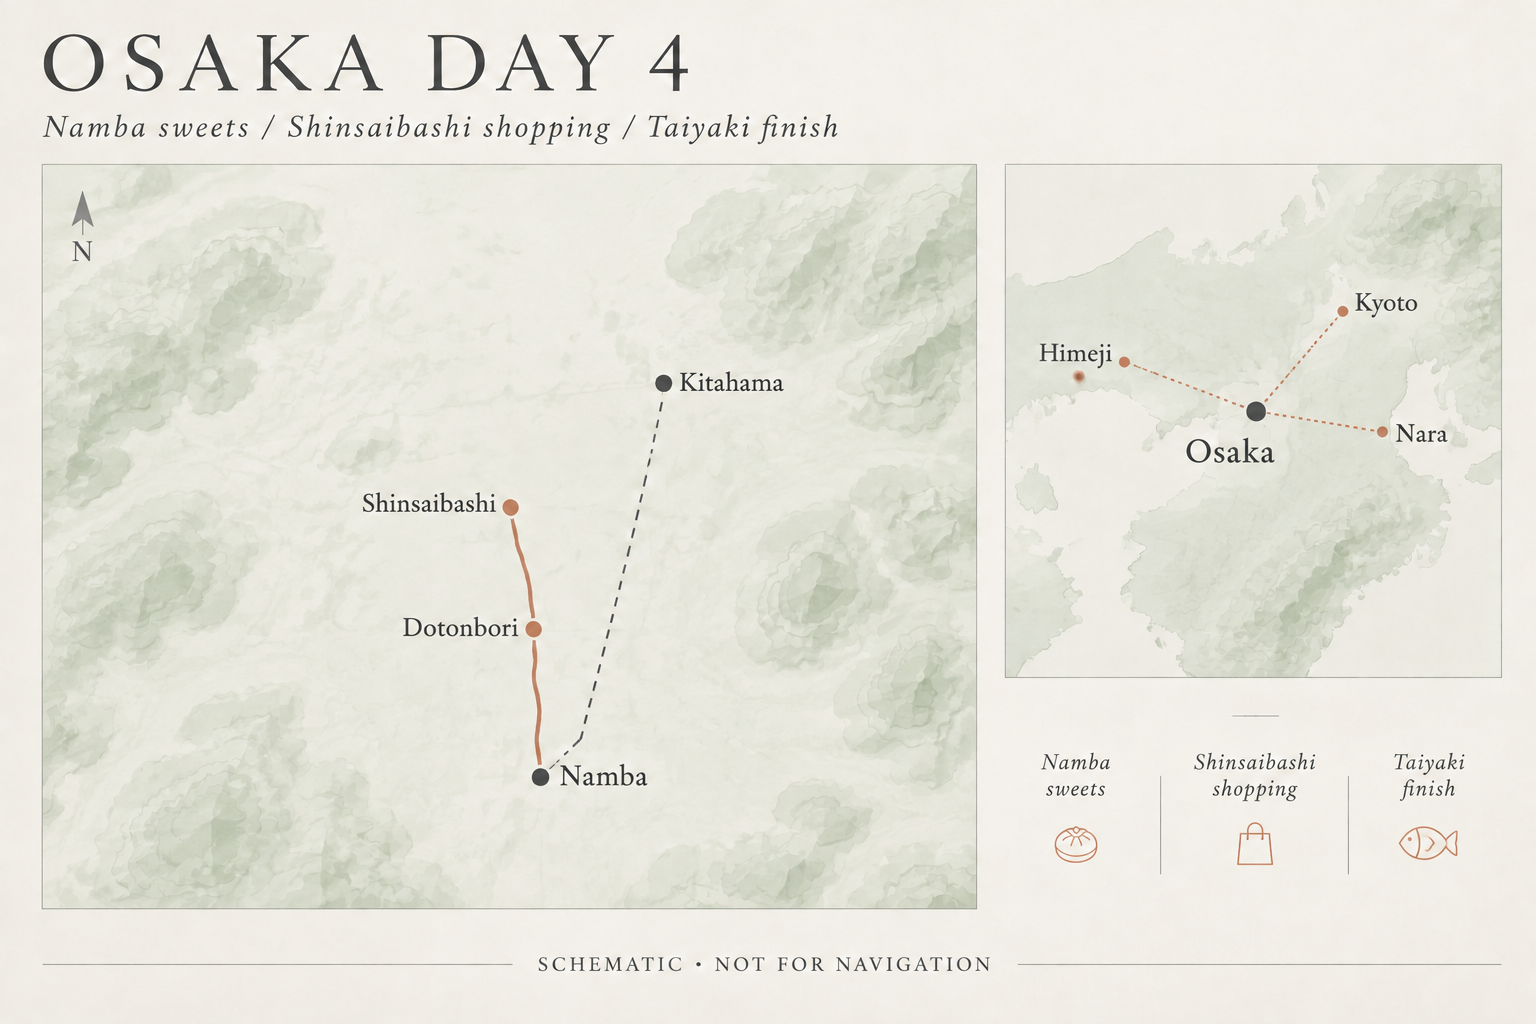
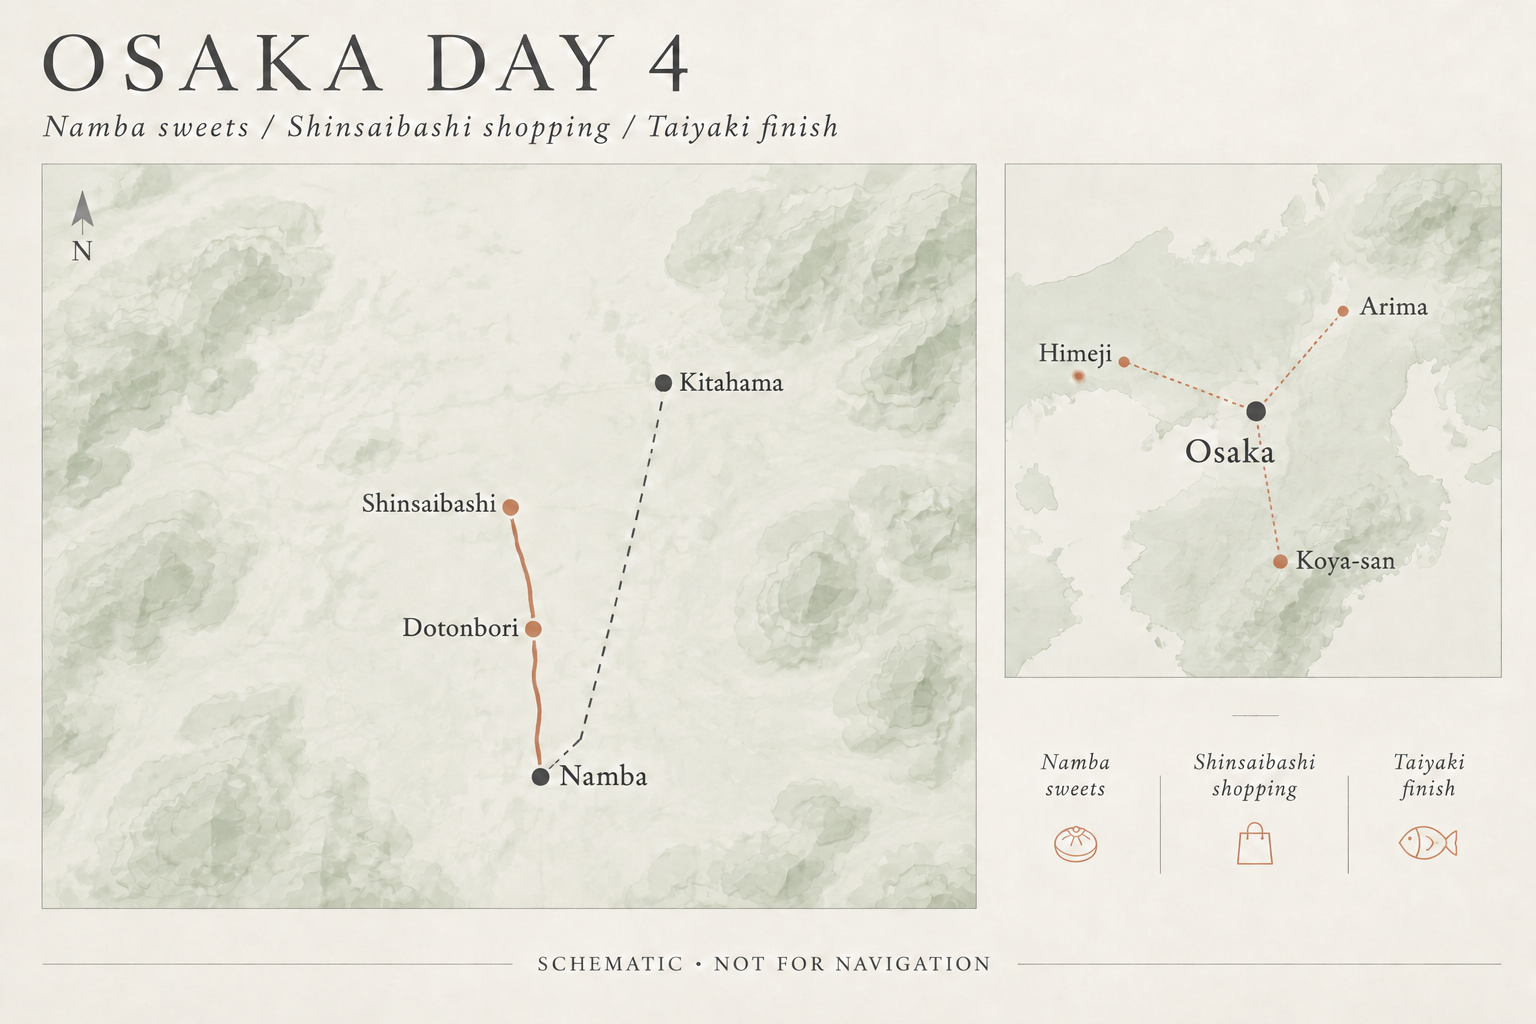
Swap Japan day 4 day trips to Himeji, Koya-san and Arima Onsen

diff --git a/src/lib/japan-day-four-plan.ts b/src/lib/japan-day-four-plan.ts
@@ -9,8 +9,8 @@ export const japanDayFourPlan = {
     askFor: "custard (カスタード)",
   },
   dayTrips: [
-    { id: "nara", name: "Nara", mood: "Deer, temples & a slower day", train: "From Osaka-Namba, take the Kintetsu Nara Line towards Kintetsu-Nara. A direct Rapid Express typically takes 35–45 minutes. Ordinary rapid/express trains do not need a limited-express supplement. From Kitahama, allow about 60–80 minutes door to door including the metro change and walk.", walk: "Walk from Kintetsu-Nara to Nara Park, then Todai-ji and the wooded approach to Kasuga Taisha. Allow 5–6 hours in town. Feed deer only the designated crackers, put food away and keep children close. Deer are wild animals and can nip or push.", start: "Osaka-Namba Station", end: "Kintetsu-Nara Station", official: "https://www.visitnara.jp/", railway: "https://www.kintetsu.co.jp/foreign/english/", stops: ["Nara Park", "Todai-ji Temple", "Kasuga Taisha"] },
-    { id: "kyoto", name: "Kyoto", mood: "Shrine paths & old streets", train: "From Osaka Station, a JR Kyoto Line Special Rapid usually takes 30 minutes to Kyoto Station. From Kitahama, another useful option is Keihan from Kitahama towards Gion-Shijo, around 50–60 minutes depending on service. Allow 60–90 minutes from the hotel to your first sightseeing stop.", walk: "Pick one side of the city rather than trying to see everything. One manageable option is Fushimi Inari early, then the Higashiyama lanes and Gion. Take the JR Nara Line from Kyoto Station to Inari, or the Keihan line to Fushimi-Inari. Allow 6–8 hours, expect crowds and respect no-photography and private-lane signs in Gion.", start: "Kitahama Station", end: "Gion-Shijo Station", official: "https://kyoto.travel/en/", railway: "https://www.keihan.co.jp/travel/en/", stops: ["Fushimi Inari Taisha", "Higashiyama Kyoto", "Gion Kyoto"] },
     { id: "himeji", name: "Himeji", mood: "A magnificent castle & a garden", train: "Take a JR Kobe Line Special Rapid from Osaka Station to Himeji, allowing around 60–75 minutes depending on the service, with no Shinkansen reservation. Alternatively, use a Sanyo Shinkansen from Shin-Osaka to Himeji, around 30–45 minutes depending on the train, plus the hotel-to-station transfer and a separate valid ticket or covered pass.", walk: "From Himeji Station's north exit, walk 15–20 minutes along Otemae-dori to Himeji Castle. Give the castle 2–3 hours and nearby Koko-en Garden another 45–60 minutes. Interior stairs are steep and shoes must be removed where instructed. Allow 5–6 hours locally and check the last castle admission before setting out.", start: "Osaka Station", end: "Himeji Station", official: "https://visit-himeji.com/en/", railway: "https://www.westjr.co.jp/global/en/", stops: ["Himeji Castle", "Koko-en Garden Himeji"] },
+    { id: "koyasan", name: "Koya-san", mood: "A mountain of temples & the great cemetery", train: "Take the Nankai Koya Line from Osaka-Namba to Gokurakubashi. The Limited Express Koya with reserved seats covers that leg in about 80 minutes and adds a ¥1,100 limited-express fee per adult on top of the fare, while an express or rapid express takes around 100 minutes, usually with one change at Hashimoto, for about ¥930. At Gokurakubashi transfer to the cable car for roughly five minutes, then take the bus about ten minutes into town, because walking the road between the cable car station and the town is not permitted. Nankai's Koyasan World Heritage Digital Ticket bundles the round trip, the cable car and two days of mountain buses for ¥3,980 per adult from Namba, or ¥4,910 with a reserved limited-express seat on the way up, and is sold online only as a QR ticket.", walk: "Give the mountain five to six hours. The Daimon-zaka cedar approach, the lantern-lined lanes of Okunoin and the Konpon Daito and Kondo halls form the compact core. Temple entry is charged separately, with Kongobuji at ¥1,000 and Kondo and Konpon Daito at ¥500 each. The town sits near 1,000 metres, so it is cooler than Osaka, and a late return means checking the last cable car and bus before you leave the temple lanes.", start: "Osaka-Namba Station", end: "Gokurakubashi Station", official: "https://www.koyasan.or.jp/en/", railway: "https://www.nankai.co.jp/en_railway/", stops: ["Okunoin Cemetery Koya-san", "Daimon-zaka Approach Koya-san", "Konpon Daito Koya-san"] },
+    { id: "arima", name: "Arima Onsen", mood: "Hot spring water & a mountain town", train: "The simplest option is the Hankyu Kanko Bus from the Hankyu Sanbangai terminal beside Osaka-Umeda, about 55 minutes with no transfer and around ¥1,400 per person one way, with all seats reserved and advance booking required. The rail alternative is a JR Special Rapid from Osaka to Sannomiya in about 21 minutes, then the Kobe subway to Tanigami and the Kobe Electric Railway up to Arima Onsen, roughly one hour and about ¥1,140 in total. Some highway buses also stop at JR Namba's Minatomachi terminal, so check the day's timetable rather than assuming one.", walk: "The town is compact and entirely walkable, so plan on lanes, bathhouses and a small hot spring museum rather than a sightseeing list. Two waters define the place: the rust-brown kinsen, or gold spring, rich in iron and salt, and the clear ginsen, or silver spring. Kin no Yu costs ¥800, or ¥650 on ordinary weekdays, with a two-bath ticket at ¥1,200, and the free Taiko no Yudonokan foot bath needs no ticket. Closing days are staggered between the bathhouses, so check the current notice for your date.", start: "Osaka-Umeda Station", end: "Arima Onsen Station", official: "https://www.arima-onsen.com/", railway: "https://www.hankyu-bus.co.jp/", stops: ["Kin no Yu Arima Onsen", "Gin no Yu Arima Onsen", "Arima Onsen Town"] },
   ],
 } as const;

diff --git a/src/components/site/JapanDayFourGuide.tsx b/src/components/site/JapanDayFourGuide.tsx
@@ -37,7 +37,7 @@ export function JapanDayFourGuide() {
         ["18:30–20:00", "Yakiniku Gorichan", "Book the branch you actually intend to visit."],
         ["After dinner", "Octave, or back to the hotel", "An optional adults-only shisha finish, with your return journey checked."],
       ].map(([time, title, note]) => <li key={title} className="grid gap-2 py-4 sm:grid-cols-[9rem_1fr]"><span className="text-sm font-semibold text-terracotta">{time}</span><div><h4 className="text-sm font-semibold">{title}</h4><p className="mt-1 text-sm leading-relaxed text-soft">{note}</p></div></li>)}</ol>
-      <img src={artwork} alt="Schematic Kitahama to Namba, Dotonbori and Shinsaibashi walking route with a taiyaki stop and separate Nara, Kyoto and Himeji excursions" width={1536} height={1024} className="mt-6 h-auto w-full rounded-lg" />
+      <img src={artwork} alt="Schematic Kitahama to Namba, Dotonbori and Shinsaibashi walking route with a taiyaki stop and separate Himeji, Koya-san and Arima Onsen excursions" width={1536} height={1024} className="mt-6 h-auto w-full rounded-lg" />
       <p className="mt-3 text-xs leading-relaxed text-soft">Schematic overview, not street or railway navigation. The walking loop links Namba, Dotonbori and Shinsaibashi. The regional inset shows three separate alternatives, not a single route.</p>
     </div>
 
@@ -129,7 +129,7 @@ export function JapanDayFourGuide() {
 
     <div className="border-b border-border py-8">
       <h3 className="flex items-center gap-2 font-display text-3xl"><TrainFront className="size-6" />Or trade the city day for one of these</h3>
-      <p className={copy}>Three researched alternatives if, like us, you feel ready to leave Osaka for the day. These are not additional trips we claim to have made on day 4. Choose one and check whether it appears later in your Japan itinerary before repeating it. All rail times are approximate, verify your date and the return train. An Osaka Metro ticket does not cover every regional railway and an IC card alone is not a Shinkansen ticket.</p>
+      <p className={copy}>Three researched alternatives if, like us, you feel ready to leave Osaka for the day. Kyoto and Nara are deliberately not on this list, because they belong to a later part of your journey and repeating them here would cost you a day you could spend somewhere new. These are not additional trips we claim to have made on day 4. Choose one and check whether it appears later in your Japan itinerary before repeating it. All rail and bus times are approximate, verify your date and the return service. An Osaka Metro ticket does not cover every regional railway and an IC card alone is not a Shinkansen ticket.</p>
       {plan.dayTrips.map(trip => <article key={trip.id} className="border-t border-border py-6">
         <p className="text-xs font-semibold uppercase text-terracotta">{trip.mood}</p>
         <h4 className="mt-2 font-display text-3xl">{trip.name}</h4>

diff --git a/src/lib/japan-day-four-plan.test.ts b/src/lib/japan-day-four-plan.test.ts
@@ -5,10 +5,6 @@ import { japanDayFourPlan as plan } from "./japan-day-four-plan";
 test("day four retains the recorded Namba shopping, Gorichan and Octave evening", () => {
   assert.deepEqual(plan.recordedStops, ["Namba", "BOOKOFF shopping", "Shinsaibashi", "Yakiniku Gorichan", "Octave"]);
 });
-test("travellers can choose three distinct day trips instead of another Osaka day", () => {
-  assert.deepEqual(plan.dayTrips.map(trip => trip.name), ["Nara", "Kyoto", "Himeji"]);
-  assert.equal(new Set(plan.dayTrips.map(trip => trip.id)).size, 3);
-});
 test("the recorded vanilla sweet is fish-shaped taiyaki, not a waffle", () => {
   assert.deepEqual(plan.recordedSweets, ["Rikuro Ojisan cheesecake", "fruit daifuku", "taiyaki with vanilla custard cream"]);
   assert.equal(plan.taiyaki.name, "Taiyaki");
@@ -19,4 +15,27 @@ test("the recorded vanilla sweet is fish-shaped taiyaki, not a waffle", () => {
 test("no recorded sweet is described as a waffle", () => {
   assert.equal(plan.recordedSweets.some(sweet => /waffle/i.test(sweet)), false);
   assert.equal(Object.keys(plan).some(key => /waffle/i.test(key)), false);
+});
+test("day four offers Himeji, Koya-san and Arima Onsen as three distinct day trips", () => {
+  assert.deepEqual(plan.dayTrips.map(trip => [trip.name, trip.start, trip.end]), [
+    ["Himeji", "Osaka Station", "Himeji Station"],
+    ["Koya-san", "Osaka-Namba Station", "Gokurakubashi Station"],
+    ["Arima Onsen", "Osaka-Umeda Station", "Arima Onsen Station"],
+  ]);
+  assert.equal(new Set(plan.dayTrips.map(trip => trip.id)).size, 3);
+});
+test("Kyoto and Nara are not offered because the travellers visit them later", () => {
+  const names = plan.dayTrips.map(trip => trip.name).join(" ").toLowerCase();
+  const stops = plan.dayTrips.map(trip => trip.stops.join(" ")).join(" ").toLowerCase();
+  assert.equal(names.includes("kyoto"), false);
+  assert.equal(names.includes("nara"), false);
+  assert.equal(stops.includes("kyoto"), false);
+  assert.equal(stops.includes("nara"), false);
+});
+test("every day trip carries official visitor and ticket sources", () => {
+  for (const trip of plan.dayTrips) {
+    assert.match(trip.official, /^https:\/\//);
+    assert.match(trip.railway, /^https:\/\//);
+    assert.ok(trip.stops.length >= 2);
+  }
 });

diff --git a/roadmap.md b/roadmap.md
@@ -1,5 +1,7 @@
 # Roadmap
 
+- [x] Replace Kyoto and Nara in Japan day 4's alternatives with two different day trips, keeping Himeji, because the travellers visit Kyoto and Nara later in their own itinerary. Redraw the map inset to match. Day four now offers Himeji, Koya-san and Arima Onsen with Nankai, Hankyu bus and bath prices per person, the inset shows Himeji, Arima and Koya-san around Osaka, and the guide explains why Kyoto and Nara are left out. Fifteen Japan tests pass and the unlocked day renders on desktop and 390px without overflow or page errors.
+
 - [x] Remove every car and parking reference from the Japan guides: the trip is reached by train, metro and walking only. Day 2 heading and eight passages, day 3 seven passages and day 4 nine passages rewritten; the day 4 parking paragraph became a metro and luggage note. Verified no car, parking or driving word remains in any Japan guide or plan file, day 4 renders unlocked with the taiyaki section, three dated ratings, the redrawn map and no mobile overflow. Thirteen Japan tests pass.
 - [x] Correct Japan day 4's recorded vanilla sweet to taiyaki (たい焼き), fish-shaped pastry with vanilla custard cream. Replaced the invented Umeda waffle detour with a taiyaki section, three dated venue snapshots and a redrawn map without Umeda.
 

diff --git a/AGENTS.md b/AGENTS.md
@@ -28,4 +28,5 @@
 - Keep Japan day-two suggested stops and avoided districts in japan-day-two-plan, with sourced venue-rating snapshots separate from recorded experiences, so ended events and unsafe detours are not offered as current programme stops.
 - Keep Japan day-three rail interchanges and dated admission/pass values in japan-day-three-plan with concrete tests, so regional-pass rules and Kurashiki station choices remain distinct from recorded travel experiences.
 - Keep Japan day-four alternatives in japan-day-four-plan and clothing-store categories tied to official listings, so suggested excursions and branches cannot be mistaken for recorded visits or book-only shops.
+- Keep Japan day-four alternatives away from destinations the travellers already visit later in their own journey, so a suggested day trip cannot cost them a repeat day.
 - Keep Japan guides reachable by train, metro and walking only, with no car or parking references, because the travellers did not drive in Japan.
